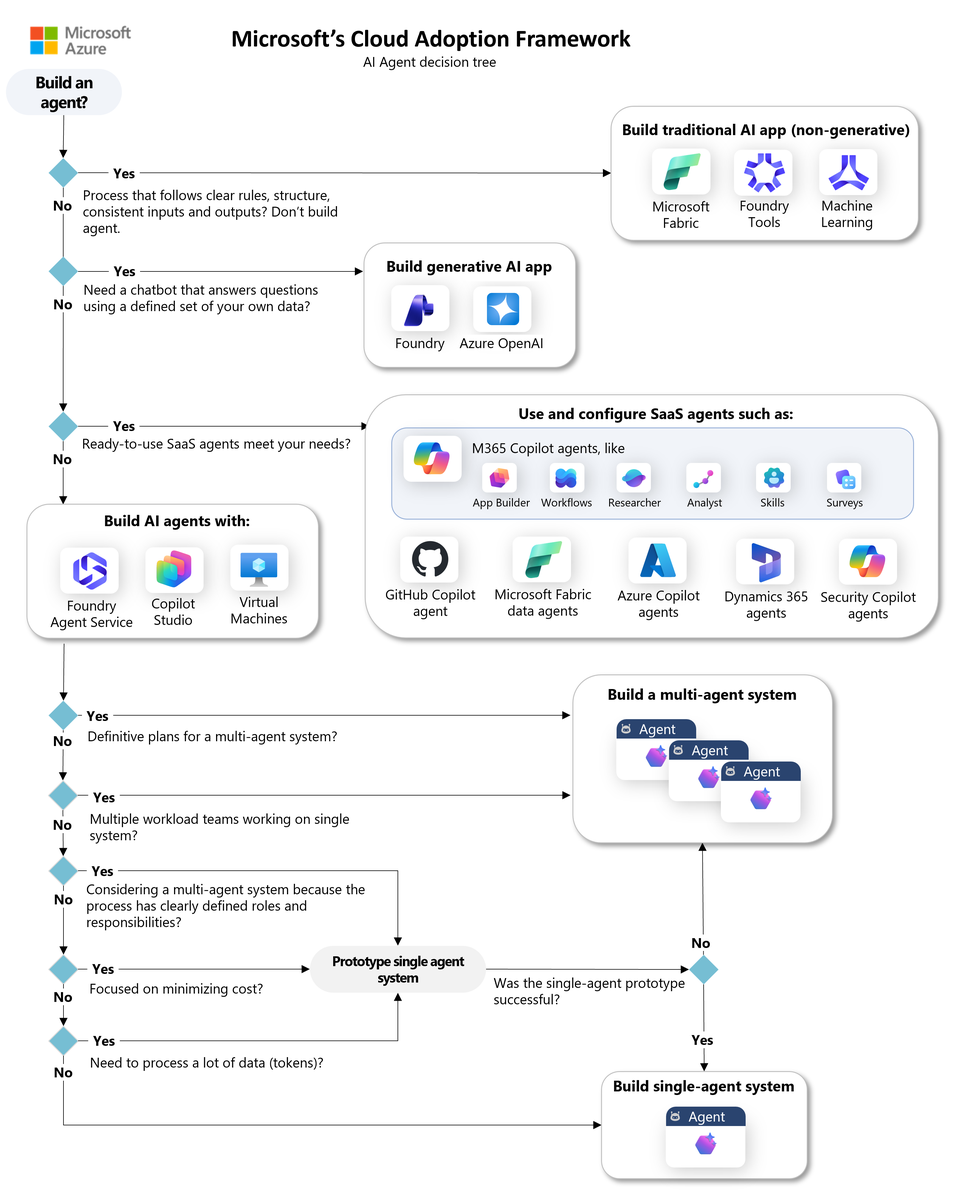
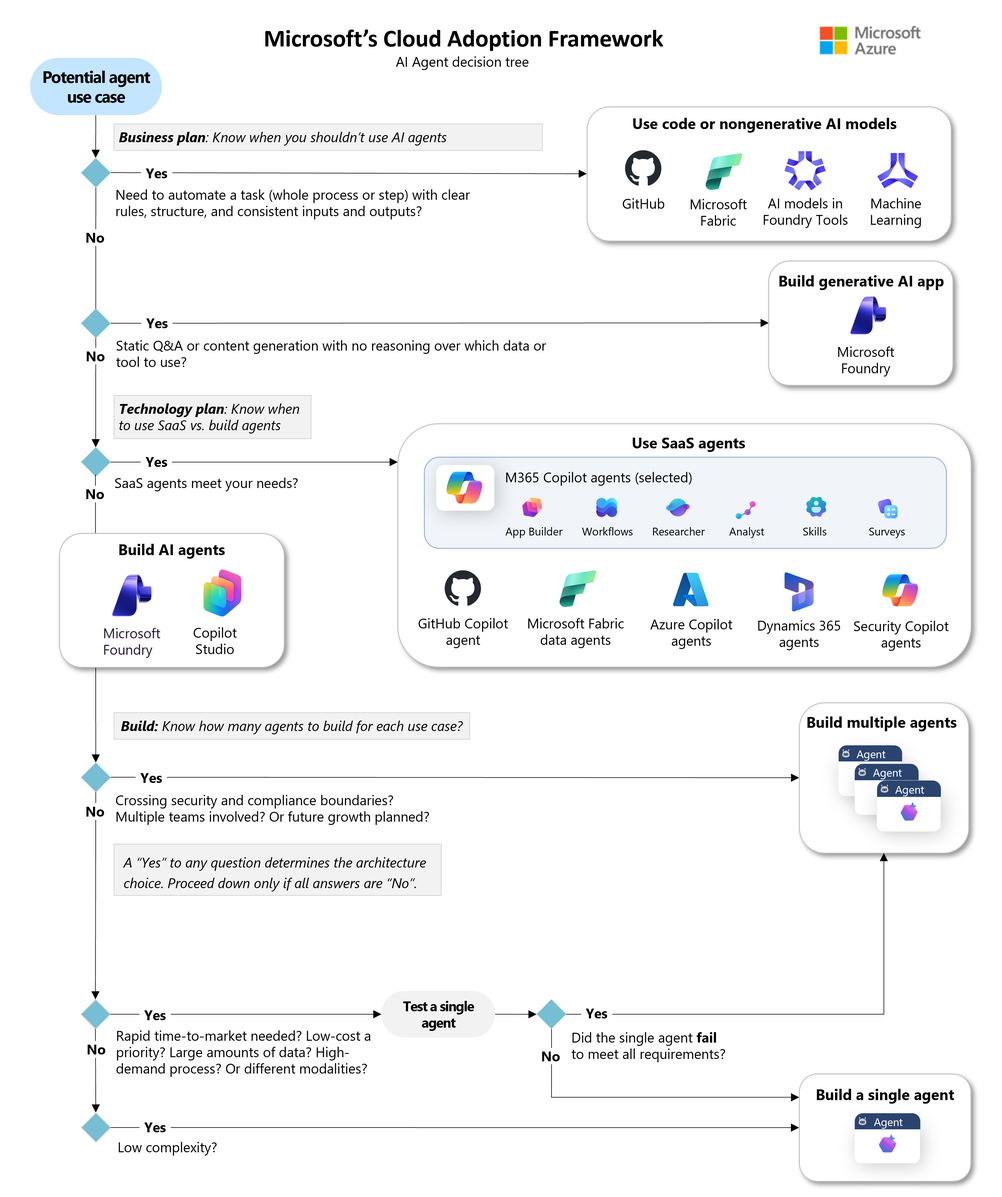
updates

diff --git a/docs/ai-agents/single-multi-agent-systems.md b/docs/ai-agents/single-multi-agent-systems.md
@@ -1,5 +1,5 @@
 ---
-title: Choosing Between Single-Agent and Multi-Agent Systems
+title: Choosing Between building a ingle agent or multiple agents
 ms.reviewer: ssumner
 description: Explore decision criteria for selecting single-agent or multi-agent architectures to optimize AI-powered solutions for your organization.
 #customer intent: As a technical decision-maker, I want to compare single-agent and multi-agent architectures so that I can optimize scalability and performance.
@@ -11,31 +11,19 @@ ms.topic: concept-article
 ms.collection: ce-skilling-ai-copilot
 ---
 
-# Single-agent versus multi-agent architecture
+# Single agent or multiple agents?
 
-Organizations building AI-powered solutions must decide between deploying a single intelligent agent or orchestrating multiple specialized agents. This architectural choice fundamentally affects how teams structure work, manage complexity, control costs, and scale across cloud environments. The decision impacts architecture cohesion, governance standards, scalability patterns, and integration consistency across the enterprise.
+Organizations building agents must decide between a single agent or using multiple agents to automate the task. This choice fundamentally affects how teams structure work, manage complexity, control costs, and scale across cloud environments. The decision impacts architecture cohesion, governance standards, scalability patterns, and integration consistency across the enterprise.
 
-Multi-agent systems provide modularity and specialization but introduce orchestration overhead, latency, and cost multiplication. Single-agent architectures offer the most efficient starting point for most scenarios. Organizations should adopt multi-agent designs only when specific security, organizational, or functional requirements mandate separation.
+Multi-agent systems provide modularity and specialization but introduce orchestration overhead, latency, and cost multiplication. Single-agent architectures offer the most efficient starting point for most scenarios. Organizations should adopt multi-agent designs only when specific security, organizational, or functional requirements mandate separation. This is just whether you should use a single agent to solve a problem or multiple agents. We are not discussing the topic of orchestration yet. You can either allow agents to manage their own tasks dynamically or define a structured workflow that includes agent actions. For guidance on choosing the right approach, see [Orchestration strategy](./build-secure.md#orchestration-strategy).
 
 :::image type="content" source="./images/ai-agent-decision-tree.png" alt-text="Diagram that shows a decision tree for single-agent or multi-agent systems." lightbox="./images/ai-agent-decision-tree.png" border="false":::
 
-## Single-agent architecture
-
-Single-agent architectures consolidate all logic, context, and tool execution into one entity. This approach simplifies design, implementation, and governance, making it the most efficient starting point for many use cases. By minimizing moving parts, organizations can focus on business logic and value generation rather than orchestration complexity.
-
-1. **Well-bounded domain.** If the problem domain is defined and the workflow is linear, a single agent is sufficient. For example, an FAQ bot for a specific knowledge base or an assistant orchestrating a fixed sequence of API calls can be handled by one agent. This keeps the architecture lean, translating to faster development and easier maintenance. It aligns with a "start small" strategy, delivering value quickly with minimal complexity.
-
-2. **Rapid time-to-market.** Single agents are preferable when speed to market drives decision-making. Teams can focus effort on prompt engineering and business logic rather than orchestration design. The simplified architecture eliminates inter-agent communication protocols and coordination complexity. This enables faster validation of business value through iterative refinement based on user feedback.
-
-3. **Cost efficiency.** Single-agent designs minimize token consumption and API costs. Consolidating operations into unified requests eliminates communication overhead between components. Research indicates multi-agent systems can consume significantly more tokens than single-agent approaches for equivalent tasks. Operational expenses also decrease through simplified monitoring, logging, and debugging requirements.
-
-Single-agent system trade-offs: Single agents context length limits restrict the volume of information agents can process simultaneously.  Broad access requirements for comprehensive functionality complicate least-privilege security enforcement. 
-
-## Multi-agent architecture
+## Multiple agent requirements
 
 Multi-agent architectures employ specialized agents to handle distinct tasks or roles, often coordinated by a central orchestrator. This modular design enables parallel operation and optimization for specific domains. While this approach handles complex environments effectively, it introduces significant coordination latency and governance overhead. Organizations should start with a multi-agent system only when specific requirements outweigh the added complexity.
 
-1. **Security and compliance isolation.** Separate agents are necessary when regulations or policies mandate strict data separation. Distinct security classifications require independent processing boundaries that single agents cannot provide. This least-privilege design limits the blast radius of security incidents. Regulated industries often require separation of duties, where one agent prepares transactions and another validates them.
+1. **Crossing security and compliance boundaries.** Separate agents are necessary when regulations or policies mandate strict data separation. Distinct security classifications require independent processing boundaries that single agents cannot provide. This least-privilege design limits the blast radius of security incidents. Regulated industries often require separation of duties, where one agent prepares transactions and another validates them.
 
 2. **Multiple teams involved.** Multi-agent designs are appropriate when distinct teams manage separate knowledge domains. Independent development cycles require decoupled architectures where teams maintain domain-specific agents using specialized expertise and data sources. This alignment mirrors organizational structure and enables parallel development without coordination bottlenecks. Teams deploy updates independently, and explicit interfaces between domains simplify governance.
 
@@ -45,25 +33,27 @@ Multi-agent system trade-offs: Multi-agent systems introduce coordination comple
 
 ## Comparative prototyping
 
-Teams often default to multi-agent architectures based on untested assumptions about complexity, performance, or role separation. Before committing to the overhead of orchestration, conduct controlled experiments to compare single-agent and multi-agent approaches. Focus prototyping on these specific decision drivers to validate if the added complexity yields necessary value.
+Teams often default to multi-agent architectures based on untested assumptions about complexity, performance, or role separation. Before committing to orchestration overhead, always start with a single-agent prototype and validate whether it meets requirements. Move to multi-agent only if testing shows clear limitations. Focus prototyping on these decision drivers:
 
-1. **Large amounts of data.** Developers frequently assume that large datasets or long conversations require multiple agents to partition context. However, single agents utilizing Retrieval-Augmented Generation (RAG) or extended context windows often maintain high accuracy. Test whether a single agent actually suffers from context degradation or hallucination. Adopt multi-agent patterns only when data volume demonstrably exceeds the reasoning capacity of a single model.
+1. **Rapid time-to-market.** Single agents are simpler and faster to implement. Start with a single-agent prototype to validate speed and user feedback before considering multi-agent architectures. This approach minimizes initial development time and allows for quicker iteration based on real-world usage.
 
-2. **Clear roles identified.** A common hypothesis is that distinct functional roles (like a planner and a reviewer) necessitate separate agents. Modern models can often switch personas effectively within a single system prompt. Evaluate if a single agent can handle role transitions without confusion or information leakage. Use multi-agent architectures when strict security boundaries or distinct organizational ownership make logical separation insufficient.
+2. **Cost efficiency.** Single-agent designs minimize token usage and API call volume. Prototype with a single agent first to confirm cost benefits before adding orchestration complexity. Multi-agent systems often multiply costs through redundant context processing and inter-agent communication, so validating the necessity of this expense is crucial.
 
-3. **High-demand process.** While multi-agent systems allow parallel processing, they introduce significant latency through orchestration and network calls. Single agents typically execute linear tasks faster. Measure throughput and response time for both designs. Validate that the performance gains from parallelizing subtasks outweigh the coordination overhead inherent in multi-agent systems.
+3. **Large amounts of data.** Test whether a single agent with Retrieval-Augmented Generation (RAG) or extended context windows can handle the required data volume. Move to multi-agent architectures only if context degradation or hallucination occurs during testing. Often, efficient data retrieval strategies can resolve capacity issues without the need for multiple agents.
 
-4. **Different modalities.** Solutions requiring diverse capabilities (such as image generation, coding, and text analysis) often drive teams toward multi-agent designs. Many state-of-the-art models are multimodal and capable of handling varied tasks via tools. Verify whether a single generalist model with tools can meet quality standards. Reserve multi-agent designs for scenarios where specialized models provide a critical advantage in cost or specific domain performance.
+4. **Clear roles identified.** Prototype with a single agent using persona-switching or distinct system prompts. Adopt multi-agent designs only if strict security boundaries or distinct organizational ownership make a unified agent insufficient. Many role-based requirements can be met by a single agent dynamically adjusting its behavior based on context.
 
-## Workflow orchestration
+5. **High-demand process.** Measure throughput and latency with a single agent under load. Move to multi-agent architectures only if parallelization provides significant, measurable gains. While multi-agent systems can offer concurrency, the overhead of coordination can sometimes negate performance benefits in simpler high-demand scenarios.
 
-Workflow orchestration combines the generative capabilities of AI agents with deterministic business logic to automate complex processes. This approach integrates AI decision-making with structured operations, ensuring reliability where precision is required. Workflows function effectively with both **single-agent** and **multi-agent** architectures, providing the scaffolding to ground AI outputs in verifiable business rules. Workflow decision criteria:
+6. **Different modalities.** Start with a single multimodal model and appropriate tools. Use multi-agent architectures only if specialized models deliver critical performance or cost advantages that a generalist model cannot match. Specialized agents are justified when specific modalities (like complex image analysis or audio processing) require distinct optimization or resource allocation.
 
-1. **Deterministic precision.** Workflows are essential when specific steps require absolute accuracy, such as financial calculations or inventory updates. Generative AI models are probabilistic and can struggle with precise arithmetic or rigid rule adherence. Wrapping agents in a workflow ensures that critical operations execute via code-based logic, while agents handle unstructured tasks like reasoning or content generation.
+## Single agent requirements
 
-2. **Hybrid process automation.** Workflows are ideal for orchestrating interactions between AI agents and traditional systems. A workflow can trigger an agent to analyze input, then execute a deterministic code block to update a database based on that analysis. This pattern allows organizations to automate end-to-end business processes that span both creative intelligence and rigid operational requirements.
+Single-agent architectures consolidate all logic, context, and tool execution into one entity. This approach simplifies design, implementation, and governance, making it the most efficient starting point for many use cases. By minimizing moving parts, organizations can focus on business logic and value generation rather than orchestration complexity.
 
-**Tooling alignment.** The choice of orchestration tool should align with development capabilities and platform strategy. [Azure AI Foundry](/azure/ai-foundry/agents/concepts/workflow?view=foundry) offers low-code options for visually designing workflows, suitable for rapid prototyping. For complex, code-heavy scenarios, the [Microsoft Agent Framework](/agent-framework/user-guide/workflows/overview) provides a pro-code environment. Both paths enable the integration of single or multiple agents into structured business processes.
+**Low complexity.** If the problem domain is well-defined, the workflow is linear, and the data volume is small, a single-agent architecture is usually the best starting point. This approach keeps the system lean, accelerates development, and simplifies maintenance. It aligns with a “start small” strategy, delivering quick value with minimal orchestration overhead. Typical examples include an FAQ bot for a specific knowledge base or an assistant executing a fixed sequence of API calls.
+
+Single-agent system trade-offs: Single agents context length limits restrict the volume of information agents can process simultaneously.  Broad access requirements for comprehensive functionality complicate least-privilege security enforcement. 
 
 ## Decision framework
 
@@ -72,7 +62,6 @@ Workflow orchestration combines the generative capabilities of AI agents with de
 | **Single agent** | Narrow domain, unified context required, MVP speed priority, cost constraints | Yes, proceed when scope remains simple and urgency dominates | Deploy single agent with tools and iterate on functionality |
 | **Comparative prototype** | Architecture unclear, need evidence on context handling, role separation, performance | No, prototyping drives decision | Execute controlled tests comparing architectures with defined metrics |
 | **Multi-agent** | Hard boundaries exist (security, compliance, organizational), guaranteed multi-domain scale | Yes, proceed to multi-agent when requirements mandate separation | Design isolated agents with scoped access and clear interfaces |
-| **Workflow orchestration** | Deterministic control required, audit requirements, hybrid AI/non-AI steps | Complements either architecture | Implement orchestration layer with explicit control flow |
 
 ## Next step
 

diff --git a/docs/ai-agents/build-secure.md b/docs/ai-agents/build-secure.md
@@ -15,13 +15,13 @@ ms.collection: ce-skilling-ai-copilot
 
 This article provides a strategic framework for technical decision makers to build agents in Microsoft Foundry and Microsoft Copilot Studio. Use this guidance to establish standards and help your organization succeed with AI agents.
 
-:::image type="content" source="./images/build-ai-agents.png" alt-text="Diagram showing five steps to build agents: Orchestration, Models, Knowledge & Tools, Observability, Security; center highlights Microsoft Foundry and Copilot Studio as two platforms for Microsoft Build." lightbox="./images/build-ai-agents.png" border="false":::
+:::image type="content" source="./images/build-ai-agents.png" alt-text="Diagram showing five steps to build agents: Orchestration, Models, Knowledge & Tools, Observability, Security. The center highlights Microsoft Foundry and Copilot Studio as two platforms for Microsoft Build." lightbox="./images/build-ai-agents.png" border="false":::
 
 ## 1. Agent orchestration
 
 Establish a strategic foundation before development begins. Enterprise architects must define system requirements, select technology platforms, and structure agent behavior to ensure agents deliver value while remaining secure and compliant.
 
-### 1.1 Platform and environment strategy
+### Environment setup
 
 Standardize the environment and governance artifacts before building AI agents. Proper setup reduces deployment delays, ensures compliance, and simplifies scaling as agent adoption grows.
 
@@ -36,22 +36,23 @@ Standardize the environment and governance artifacts before building AI agents. 
 
     :::image type="icon" source="./images/copilot-studio-icon.png"::: **Copilot Studio**:  Use for SaaS integration and low-code extensibility. [Verify licensing](/microsoft-copilot-studio/requirements-licensing-subscriptions) and [configure environments](/microsoft-copilot-studio/environments-first-run-experience) to separate development, testing, and production workloads.
 
-### 1.2 Orchestrator selection
+### Orchestration strategy
 
-Orchestration determines how agents coordinate, make decisions, and execute tasks. Select an orchestration pattern that balances complexity with control. Choose between managed and custom orchestration frameworks based on organizational capability and requirements:
+Orchestration determines how agents coordinate, make decisions, and execute tasks. Select an orchestration pattern that balances complexity with control.
 
-| Approach | Benefits | Tradeoffs |
-| :--- | :--- | :--- |
-| **Managed orchestration** (Foundry Agent Service) | Quick deployment, built-in security, enterprise connectors | Limited customization, reduced transparency |
-| **Agent orchestration frameworks** (Microsoft Agent Framework, LangGraph) | Complete control, full visibility, multi-cloud flexibility | Significant engineering effort, compliance responsibility |
+1. **Select an orchestration pattern.** Choose between managed services and custom frameworks based on organizational capability and requirements.
+    *   **Managed orchestration** (Azure AI Agent Service) offers quick deployment, built-in security, and enterprise connectors, but limits customization and transparency.
+    *   **Custom frameworks** (Microsoft Agent Framework, LangGraph) provide complete control, full visibility, and multi-cloud flexibility, but impose significant engineering effort and compliance responsibility.
 
-:::image type="icon" source="./images/foundry-icon.png"::: **Foundry**: For managed orchestration, see [Build a workflow](/azure/ai-foundry/agents/concepts/workflow?view=foundry).
+2. **Use workflows for deterministic sequences.** Workflows are not mandatory but provide structure when processes require a predefined order of operations. Use workflows to define sequences that include agents, grounding AI decision-making in verifiable rules. This approach ensures reliability for complex tasks where consistency is prioritized over flexibility.
 
-:::image type="icon" source="./images/microsoft-agent-framework-icon.png"::: **Microsoft Agent Framework**: For hosted agents, see [workflow orchestrations](/agent-framework/user-guide/workflows/orchestrations/overview) and [AI agent orchestration patterns](/azure/architecture/ai-ml/guide/ai-agent-design-patterns).
+:::image type="icon" source="./images/foundry-icon.png"::: **Foundry**: Use [Workflows](/azure/ai-foundry/agents/concepts/workflow?view=foundry) for visual, low-code design suitable for rapid prototyping.
 
-:::image type="icon" source="./images/copilot-studio-icon.png"::: **Copilot Studio**: For multi-agent systems, [set up agent flows](/microsoft-copilot-studio/flows-overview) with distinct roles and approval checkpoints. [Configure agent behavior](/microsoft-copilot-studio/advanced-generative-actions) by orchestrating with generative AI.
+:::image type="icon" source="./images/microsoft-agent-framework-icon.png"::: **Microsoft Agent Framework**: Use the [Microsoft Agent Framework](/agent-framework/user-guide/workflows/overview) for complex, code-heavy scenarios requiring a pro-code environment.
 
-### 1.3 Agent instructions
+:::image type="icon" source="./images/copilot-studio-icon.png"::: **Copilot Studio**: [Set up agent flows](/microsoft-copilot-studio/flows-overview) for multi-agent systems with distinct roles and approval checkpoints. [Configure agent behavior](/microsoft-copilot-studio/advanced-generative-actions) by orchestrating with generative AI.
+
+### Agent instructions
 
 Agent instructions act as operational guardrails that shape how agents respond, interact, and comply with organizational policies. Standardize these instructions to ensure consistency and regulatory alignment.
 
@@ -89,7 +90,7 @@ In multi-agent architectures, define policies for assigning distinct models to s
 
 Organizations must define standards for how agents access data and perform actions. These policies determine the agent’s reliability, compliance posture, and operational risk. **Follow all [data governance and compliance policies](./governance-security.md#data-governance-and-compliance).**
 
-### 3.1 Agent knowledge
+### Agent knowledge
 
 Ensure the [data governance](./governance-security.md#data-governance-and-compliance) policies you defined are enforced. Review the [Data plan for AI agents](./data-plan.md) to align integration strategies with organizational security requirements.
 
@@ -99,7 +100,7 @@ Segment knowledge by role. In multi-agent systems, restrict data access based on
 
 :::image type="icon" source="./images/copilot-studio-icon.png"::: **Copilot Studio**: Use [knowledge sources](/microsoft-copilot-studio/knowledge-copilot-studio) to connect agents to approved information repositories and [connectors](/microsoft-copilot-studio/advanced-connectors) to integrate with enterprise systems securely.
 
-### 3.2 Agent tools
+### Agent tools
 
 Agents performing tasks, such as triggering workflows or modifying records, require strict governance to prevent unauthorized system access. Define approved actions and secure the tools that execute them to ensure operations remain within compliance boundaries.
 
@@ -119,7 +120,7 @@ Agents performing tasks, such as triggering workflows or modifying records, requ
 
 :::image type="icon" source="./images/copilot-studio-icon.png"::: **Copilot Studio**: [Add tools](/microsoft-copilot-studio/advanced-plugin-actions) and [triggers](/microsoft-copilot-studio/authoring-triggers-about).
 
-### 3.3 Agent memory
+### Agent memory
 
 Agent memory supports continuity across sessions by retaining context from previous interactions. This capability improves user experience by reducing repetitive input and enabling more natural conversations. However, memory introduces data protection obligations that require explicit policies and technical controls.
 
@@ -146,7 +147,7 @@ Observability ensures agents operate reliably, meet performance expectations, an
 :::image type="content" source="./images/governance-security.png" alt-text="Diagram illustrating governance layers for agents and workflows. At the top, a box labeled Organizational Governance includes categories for Data Governance, Security, Observability, and Development, with tools such as Microsoft Purview, Azure Policy, Microsoft Defender, Azure Monitor, Microsoft Entra, and development frameworks like Microsoft Agent Framework, Foundry SDK, and MCP. Below, a second box labeled Government for Building and Operating Agents and Workflows is divided into two sections: Build Phase: Four boxes for Agents and Workflows, Models, Evaluations, and Guardrails, each governed and secured by corresponding tools. Operate Phase: Four boxes for Assets, Compliance, Quotas, and Administration, with tools supporting governance during operations.." lightbox="./images/governance-security.png" border="false":::
 
 :::image type="icon" source="./images/foundry-icon.png"::: **Foundry**: Use the [Microsoft Foundry Control Plane](/azure/ai-foundry/control-plane/overview?view=foundry) for unified visibility and governance across your agent fleet. 
-    
+
 1. **Agents and workflows.** Configure [traces](/azure/ai-foundry/observability/concepts/trace-agent-concept?view=foundry) for execution visibility to provide the context needed to diagnose issues and improve agent logic. Establish expected ranges for latency, cost, and success rates. Alert teams when agents operate outside these baselines to enable rapid investigation and remediation. Configure [monitoring](/azure/ai-foundry/agents/how-to/metrics?view=foundry) for Foundry instances and all projects Use [agent evaluators](/azure/ai-foundry/concepts/evaluation-evaluators/agent-evaluators?view=foundry) to measure quality. See [Agent Monitoring Dashboard](/azure/ai-foundry/agents/how-to/how-to-monitor-agents-dashboard?view=foundry).
 
 2. **Models.** [Monitor models](/azure/ai-foundry/foundry-models/how-to/monitor-models?view=foundry) and use [evaluations](/azure/ai-foundry/concepts/observability?view=foundry#what-are-evaluators) to measure the quality, safety, and reliability of AI responses from deployed models.

diff --git a/docs/ai-agents/business-plan.md b/docs/ai-agents/business-plan.md
@@ -31,25 +31,38 @@ Identify the strategic areas where AI agents deliver the most significant impact
 
 ## When to use AI agents?
 
-After identifying a strategic area for improvement, determine if an AI agent is the correct technical solution. Agents provide value in tasks that require reasoning, adaptability, and the ability to handle variable inputs. They differ from traditional automation, which relies on fixed logic. Use the following criteria to narrow the scope and select appropriate use cases.
-
-1. **Distinguish reasoning from repetition.** Do not use AI agents for tasks that simpler, deterministic tools can solve. If a process follows a predictable path with fixed inputs and outputs, an agent introduces unnecessary cost and latency. Reserve agents for scenarios where ambiguity exists.
-
-2. **Combine agents with deterministic code.** Split processes into distinct components. Use AI agents for user interaction, intent recognition, or data gathering, and rely on deterministic functions for calculations or database commits. This hybrid approach ensures precision for mathematical or transactional tasks while using the agent's flexibility for engagement.
-
-3. **Validate feasibility with pilots.** Test use cases in low-code or no-code environments before committing to full development. Platforms like Azure AI Foundry or Microsoft Copilot Studio allow for rapid prototyping. This step confirms whether an agent adds value beyond standard automation without significant upfront investment.
+After identifying a strategic area for improvement, determine if an AI agent is the correct technical solution. Not every problem requires an agent. Simpler tools often provide faster, more reliable results for predictable tasks.
 
 :::image type="content" source="./images/ai-agent-decision-tree.png" alt-text="Decision tree diagram showing when to use traditional AI apps, generative AI apps, SaaS agents, and AI agents you build." lightbox="./images/ai-agent-decision-tree.png" border="false":::
 
-4. **Identify agent use cases.** Explore examples from resources such as the [Microsoft Scenario Library](https://adoption.microsoft.com/scenario-library/) and [AI Use Cases catalog](https://www.microsoft.com/ai/use-case) to guide planning. These reference resources help avoid common design flaws and accelerate solution development. Include these resources in workshops and use them to benchmark internal ideas. See also [AI-powered success](https://www.microsoft.com/microsoft-cloud/blog/2025/07/24/ai-powered-success-with-1000-stories-of-customer-transformation-and-innovation/#:~:text=In%20this%20blog%2C%20we%E2%80%99ve%20collected%20more%20than%201%2C000,impact%20and%20shape%20today%E2%80%99s%20platform%20shift%20to%20AI.?msockid=3d64a84f1d7463b738e3bbc21c03625f), [Azure Marketplace](https://azure.microsoft.com/partners/marketplace?msockid=3d64a84f1d7463b738e3bbc21c03625f), and the [Sample Solution Gallery](https://adoption.microsoft.com/sample-solution-gallery/).
+### When not to use AI agents?
 
-## How to prioritize AI agent use cases
+Before building an agent, assess whether a deterministic or structured approach is more suitable.
+
+1. **Use deterministic code for predictable tasks.** Do not use AI agents for tasks that simpler, deterministic tools can solve. If a process follows a predictable path with fixed inputs and outputs, involves numerical calculations, and requires precise outputs, use standard code or deterministic AI automation. An agent introduces unnecessary variability, cost, and latency.
+
+1. **Build generative AI apps for static retrieval.** Use a generative AI application, rather than an agent, for static Q&A or content generation that requires no reasoning over which data or tool to use. These applications use a consistent index to generate responses without the complex orchestration capabilities of an agent.
+
+1. **Implement workflows for defined processes.** Use workflows when the sequence of operations is explicitly defined and requires strict control over the execution path. A workflow is a predefined sequence that can include AI agents as components, handling complex business processes, human interactions, and system integrations. Unlike agents, workflows do not rely on an LLM to determine the path dynamically. They follow a set structure.
+
+### Identify AI agent use cases
+
+1. **Select AI agents for reasoning and adaptability.** Agents provide value in tasks that require reasoning, adaptability, and the ability to handle variable inputs. They differ from traditional automation, which relies on fixed logic. Consult resources such as the [Microsoft Scenario Library](https://adoption.microsoft.com/scenario-library/), [AI Use Cases catalog](https://www.microsoft.com/ai/use-case), and [Sample Solution Gallery](https://adoption.microsoft.com/sample-solution-gallery/) to guide planning. Reference these examples to benchmark internal ideas and avoid design flaws.
+
+3. **Validate feasibility with pilots.** Test use cases in low-code or no-code environments before committing to full development. Platforms like Azure AI Foundry or Microsoft Copilot Studio allow for rapid prototyping. This step confirms whether an agent adds value beyond standard automation without significant upfront investment.
+
+
+### Identify AI agent use cases
+
+Choose AI agents when the task requires dynamic reasoning and adaptability rather than a fixed sequence of steps.
+
+1. **Select AI agents for dynamic reasoning.** An AI agent is driven by a large language model (LLM) and determines its own steps based on context and available tools. Use agents for scenarios where the path to the solution is ambiguous or variable. Consult resources such as the [Microsoft Scenario Library](https://adoption.microsoft.com/scenario-library/) to guide planning.
+
+1. **Validate feasibility with pilots.** Test use cases in low-code or no-code environments before committing to full development. Platforms like Azure AI Foundry or Microsoft Copilot Studio allow for rapid prototyping. This step confirms whether an agent adds value beyond standard automation without significant upfront investment.
+
+## How to prioritize AI agent use cases?
 
 Not all agent initiatives deliver equal value. Prioritize use cases that align with strategic goals and demonstrate impact quickly. Focus on projects that offer high business value and low implementation complexity. Use three criteria to evaluate and rank candidate use cases: business impact (value), technical feasibility (complexity), and user desirability (value).
-
-:::image type="complex" source="./images/high-value-low-complexity-use-cases.png" alt-text="Prioritization matrix for AI agent use cases" lightbox="./images/business-impact.png" border="false":::
-   Diagram showing a matrix with Business Value on the vertical axis and Implementation Complexity on the horizontal axis. The diagram highlights the sweet spot in the upper-left quadrant representing high business value and low implementation complexity, which is the optimal target for AI agent use case prioritization.
-:::image-end:::
 
 ### Evaluate business impact
 
